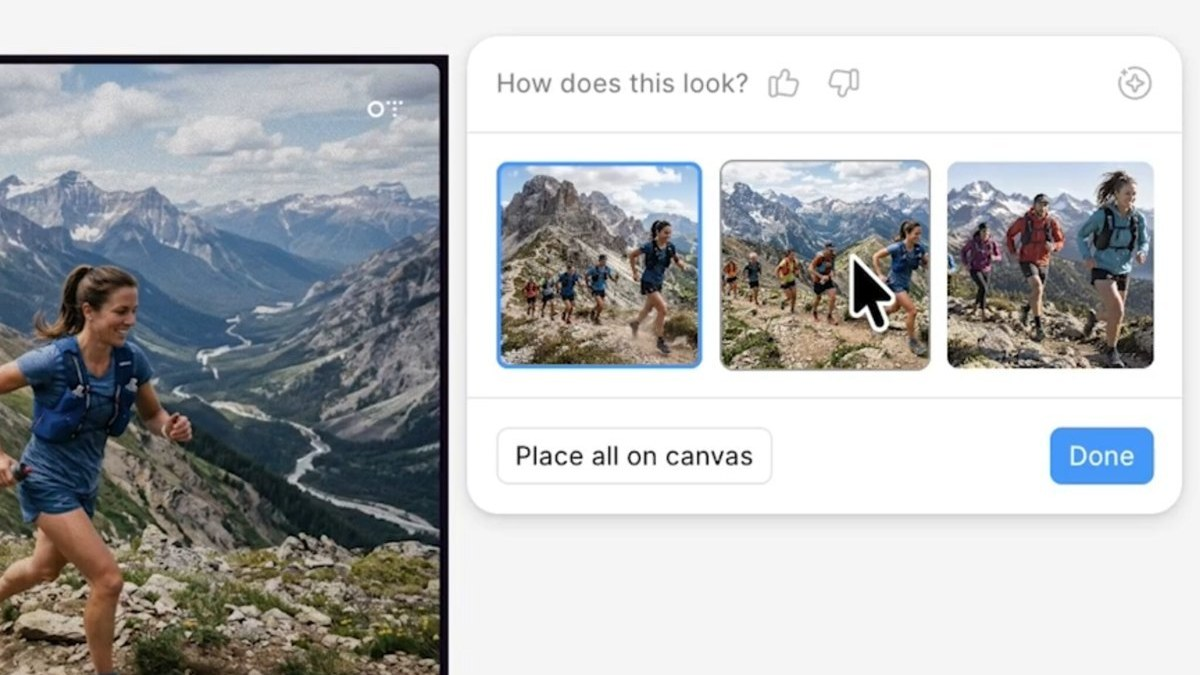
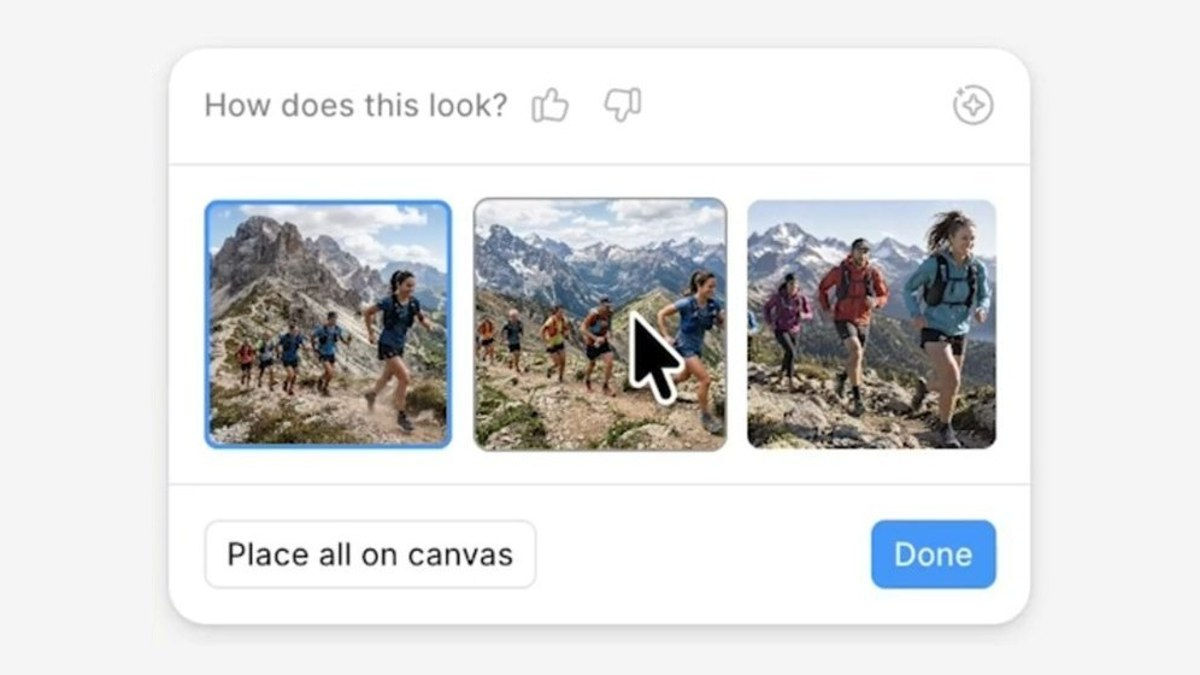
Edition 22 Nov 2026: recentre thumbnails so source images fill their frames
Claude-Session: https://claude.ai/code/session_01WDEkrPF6GciVGTHpJN73RG

diff --git a/messy-ux-bengaluru.html b/messy-ux-bengaluru.html
@@ -739,8 +739,8 @@ a.media:hover { text-decoration: none; }
         <p>By <b>DD Desk</b><br><span class="mono mute">22 Nov 2026 &nbsp;·&nbsp; 2 min read</span></p>
       </div>
       <figure class="article__hero">
-        <div class="media"><img src="images/messy-ux-bengaluru.jpg" alt="The Messy UX Conference 2026 banner: the word Messy on an orange label, with the line 28 Nov 2026, Bengaluru, designshots.org."></div>
-        <figcaption class="mono">The conference banner. Image: <a href="https://designshots.org/conference" rel="noopener">Design Shots</a></figcaption>
+        <div class="media"><img src="images/messy-ux-bengaluru.jpg" alt="An illustration of a small figure walking from a tangle of white threads towards smooth rainbow-coloured waves."></div>
+        <figcaption class="mono">The conference theme, from mess to clarity. Image: <a href="https://designshots.org/conference" rel="noopener">Design Shots</a></figcaption>
       </figure>
       <div class="article__cols3">
         <p>The Messy UX Conference takes place on Saturday 28 November at Trinity in Whitefield, Bengaluru. It is a one-day, in-person event run by Design Shots, a design community. Passes are sold out, and the organisers say more than 120 people are coming.</p>
@@ -752,8 +752,8 @@ a.media:hover { text-decoration: none; }
         <p>Before the event, the organisers also ran free online evenings called Road to Messy UX, with two speakers each, on Google Meet.</p>
       </div>
       <figure class="article__post-after">
-        <img src="images/messy-ux-mess-to-clarity.jpg" alt="An illustration of a small figure walking from a tangle of white threads towards smooth rainbow-coloured waves." loading="lazy" style="display:block;width:100%;max-width:none;height:auto">
-        <figcaption class="mono" style="max-width:none">The organisers’ theme, from mess to clarity. Image: <a href="https://designshots.org/conference" rel="noopener">Design Shots</a></figcaption>
+        <img src="images/messy-ux-banner.jpg" alt="The Messy UX Conference 2026 banner: the word Messy on an orange label, with the line 28 Nov 2026, Bengaluru, designshots.org." loading="lazy" style="display:block;width:100%;max-width:none;height:auto">
+        <figcaption class="mono" style="max-width:none">The conference banner. Image: <a href="https://designshots.org/conference" rel="noopener">Design Shots</a></figcaption>
       </figure>
       <div class="article__facts">
         <div><p class="mono mute">What changed</p><p>The Messy UX Conference runs at Trinity, Whitefield, Bengaluru on Saturday 28 November 2026, with 13 speakers. Passes are sold out.</p></div>

diff --git a/samsung-app-lock.html b/samsung-app-lock.html
@@ -739,8 +739,8 @@ a.media:hover { text-decoration: none; }
         <p>By <b>DD Desk</b><br><span class="mono mute">22 Nov 2026 &nbsp;·&nbsp; 3 min read</span></p>
       </div>
       <figure class="article__hero">
-        <div class="media"><img src="images/samsung-app-lock.jpg" alt="A Galaxy phone home screen with a Verify it’s you prompt from the Calendar app, asking for a fingerprint, and a fingerprint icon below it."></div>
-        <figcaption class="mono">App Lock in One UI 9.5: opening a locked app asks for your fingerprint first. Image: <a href="https://news.samsung.com/global/samsung-begins-one-ui-9-5-beta-program" rel="noopener">Samsung Newsroom</a></figcaption>
+        <div class="media"><img src="images/samsung-app-lock.jpg" alt="A Galaxy phone in the centre showing a Verify it’s you fingerprint prompt for a locked Calendar app, between two Samsung Health Mindful Note screens."></div>
+        <figcaption class="mono">Centre: App Lock asks for your fingerprint before a locked app opens. Sides: the new Mindful Note journal. Images: <a href="https://news.samsung.com/global/samsung-begins-one-ui-9-5-beta-program" rel="noopener">Samsung Newsroom</a></figcaption>
       </figure>
       <div class="article__cols3">
         <p>Samsung opened the One UI 9.5 beta for the Galaxy S26, S26+ and S26 Ultra on 18 November. India was in the first group of countries, alongside the US, the UK, South Korea, Germany and Poland. You sign up through a banner in the Samsung Members app, then install the update from Software update in Settings.</p>
